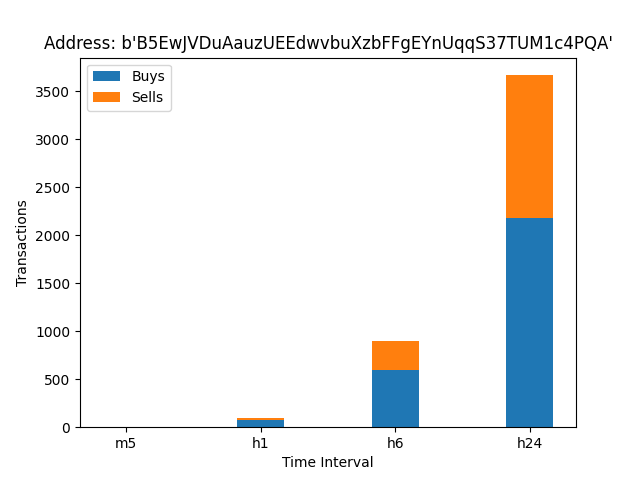
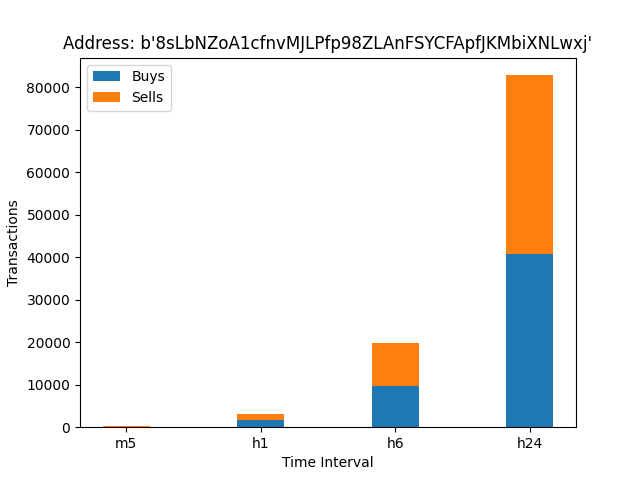
added volume by time charts to raydium page

diff --git a/templates/index.html b/templates/index.html
@@ -86,43 +86,43 @@ document.addEventListener('DOMContentLoaded', () => {
         })
         .then(response => response.json())
         .then(data => {
-        console.log('Success:', data.pair_URL);
-        const pair_URL = data.pair_URL;
-        const chain_id = data.chain_id;
-        const dex_id = data.dex_id;
-        const quote_token = data.quote_token;
-        const base_token = data.base_token;
-        const chart_div = data.chart_div;
-        const x_data = data.x_data;
-        const y_data = data.y_data;
+          console.log('Success:', data.pair_URL);
+          const pair_URL = data.pair_URL;
+          const chain_id = data.chain_id;
+          const dex_id = data.dex_id;
+          const quote_token = data.quote_token;
+          const base_token = data.base_token;
+          const chart_div = data.chart_div;
+          const x_data = data.x_data;
+          const y_data = data.y_data;
 
-        summaryDiv.innerHTML = `
-            <div> 
-                <p>${base_token} / ${quote_token}</p> 
-                <p>Chain: ${chain_id}</p> 
-                <p>Dex: ${dex_id}</p>
-                <p>URL: <a href="${pair_URL}">${pair_URL}</a></p>
-                <div id="chart"></div>
-            </div>
-        `;
-            // Generate the chart directly on the client side
-        const trace = {
-            x: x_data,
-            y: y_data,
-            type: 'bar'
-        };
-        
-        const layout = {
-            title: base_token + '/' + quote_token,
-            xaxis: { title: 'Time Frame' },
-            yaxis: { title: 'Volume' }
-        };
-        
-        Plotly.newPlot('chart', [trace], layout);
-        })
-        .catch((error) => {
-            console.error('Error:', error);
-        });
+          summaryDiv.innerHTML = `
+              <div> 
+                  <p>${base_token} / ${quote_token}</p> 
+                  <p>Chain: ${chain_id}</p> 
+                  <p>Dex: ${dex_id}</p>
+                  <p>URL: <a href="${pair_URL}">${pair_URL}</a></p>
+                  <div id="chart"></div>
+              </div>
+          `;
+              // Generate the chart directly on the client side
+          const trace = {
+              x: x_data,
+              y: y_data,
+              type: 'bar'
+          };
+          
+          const layout = {
+              title: base_token + '/' + quote_token,
+              xaxis: { title: 'Time Frame' },
+              yaxis: { title: 'Volume' }
+          };
+          
+          Plotly.newPlot('chart', [trace], layout);
+          })
+          .catch((error) => {
+              console.error('Error:', error);
+          });
     }
 });
 

diff --git a/templates/raydium.html b/templates/raydium.html
@@ -37,11 +37,6 @@ document.addEventListener('DOMContentLoaded', () => {
             sendTokenPairAddressToFlask(tokenPairAddress);
 
             summaryDiv.style.display = 'block';
-            summaryDiv.innerHTML = `
-                <div> 
-                    <img src="transaction_chart.png?t=${new Date().getTime()}" alt="Transaction Chart">
-                </div>
-            `;
         });
     });
 
@@ -65,6 +60,8 @@ document.addEventListener('DOMContentLoaded', () => {
             const price_usd = data.price_usd
             const volume_24h = data.volume_24h
             const price_native = data.price_native
+            const x_data = data.x_data;
+            const y_data = data.y_data;
             
             summaryDiv.innerHTML = `
             <div class="row">
@@ -79,14 +76,27 @@ document.addEventListener('DOMContentLoaded', () => {
                     <p> Price USD: ${price_usd} </p>
                     <p> Volume 24H: ${volume_24h} </p>                   
                     <p> URL: <a href="${pair_URL}">${pair_URL}</a> </p>
-                    <img src="transaction_chart.png?t=${new Date().getTime()}" alt="Transaction Chart">
+                    <div id="chart"></div>
                 </div>
             </div>
             `;
-        })
-        .catch((error) => {
-            console.error('Error:', error);
-        });
+                            // Generate the chart directly on the client side
+            const trace = {
+                x: x_data,
+                y: y_data,
+                type: 'bar'
+            };
+            const layout = {
+                title: base_token + '/' + quote_token,
+                xaxis: { title: 'Time Frame' },
+                yaxis: { title: 'Volume' }
+            };
+
+            Plotly.newPlot('chart', [trace], layout);
+            })
+            .catch((error) => {
+                console.error('Error:', error);
+            });
     }
 });
 

diff --git a/templates/base.html b/templates/base.html
@@ -8,6 +8,7 @@
     <link href="https://stackpath.bootstrapcdn.com/bootstrap/4.5.2/css/bootstrap.min.css" rel="stylesheet">
     <link rel="stylesheet" href="{{ url_for('static', filename='styles.css') }}">
     <script src="https://cdn.jsdelivr.net/npm/chart.js"></script>
+    <script src="https://cdn.plot.ly/plotly-latest.min.js"></script>
 </head>
 <body>
     <nav class="navbar navbar-expand-lg navbar-light bg-light fixed-top">
